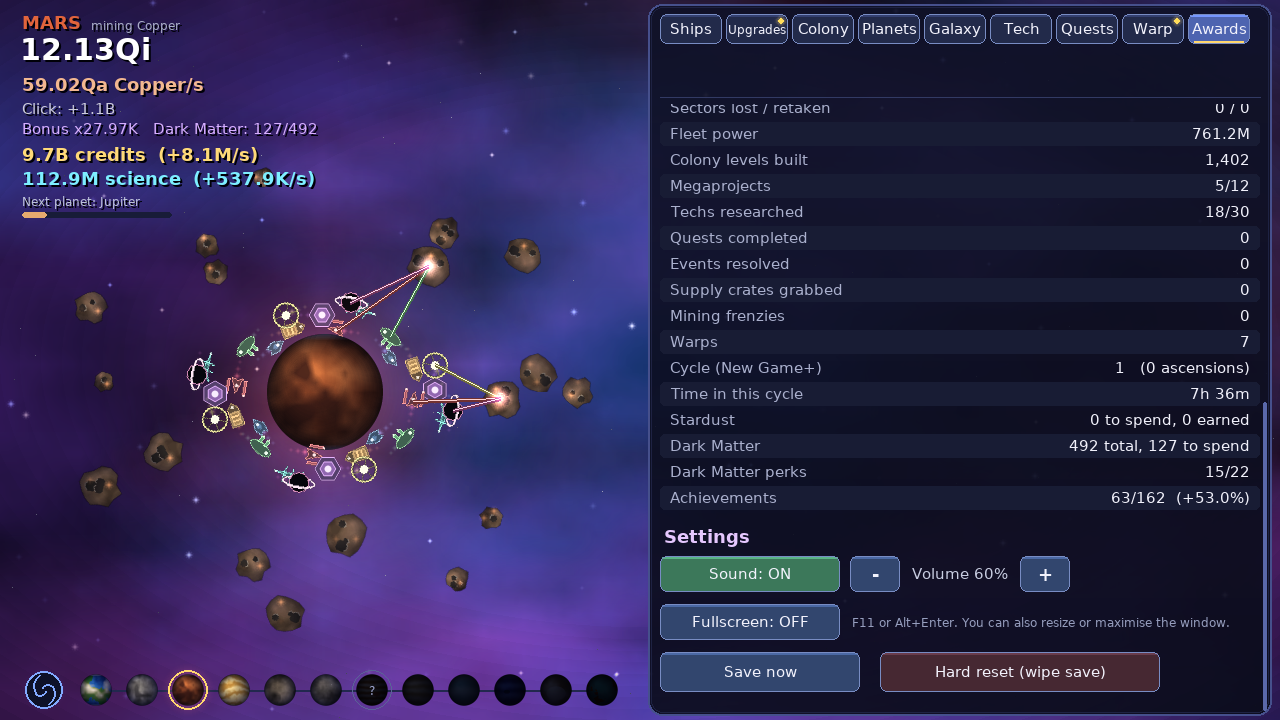
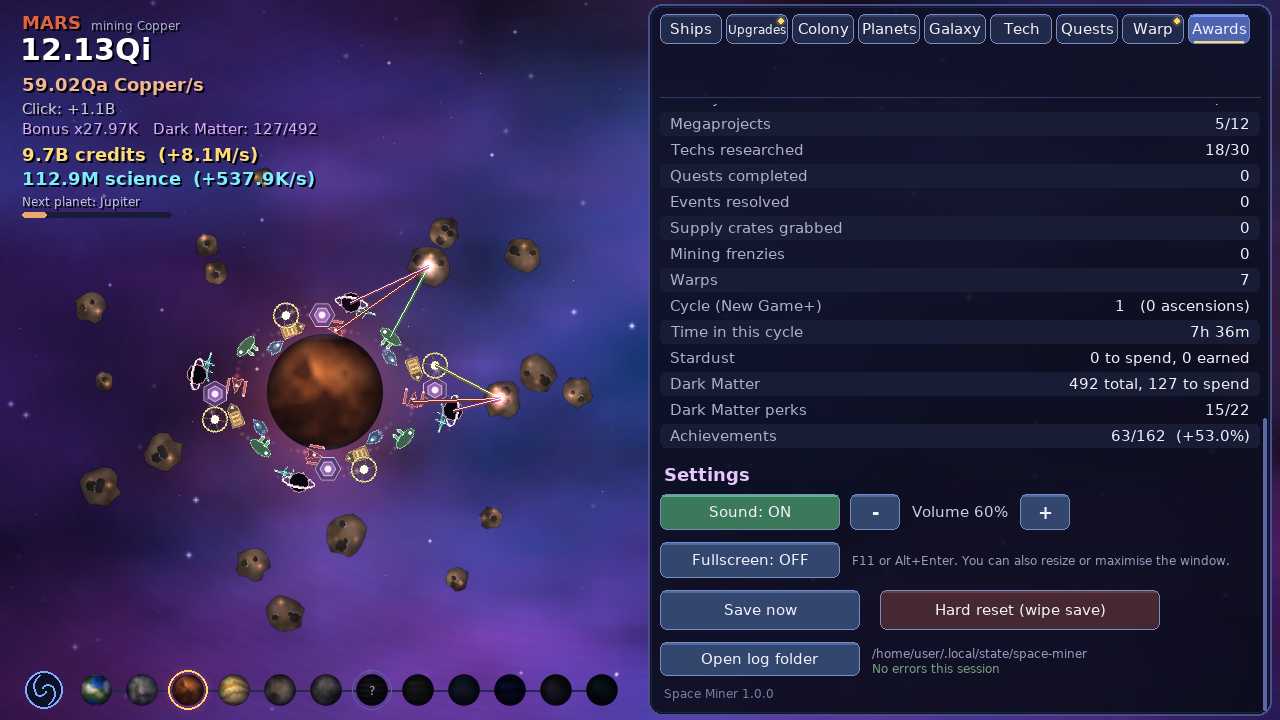
Log button only when logging works; refresh the settings screenshot

Changed region(s): [[0.5, 0.1222, 0.9688, 0.9778], [0.8438, 0.3972, 1.0, 0.7028], [0.9375, 0.1528, 0.9688, 0.3056]]

diff --git a/space_miner.py b/space_miner.py
@@ -1819,7 +1819,7 @@ class App:
                     "CLICK AGAIN: WIPE SAVE" if self.reset_confirm > 0 else "Hard reset (wipe save)", sm,
                     self.hard_reset, panel=True, col=(150, 60, 70) if self.reset_confirm > 0 else (70, 40, 50))
         y += 52
-        can_open = not resources.ANDROID and gamelog.log_path() is not None
+        can_open = not resources.ANDROID and gamelog.enabled()
         self.button(scr, pygame.Rect(PANEL.x, y, 200, 34), "Open log folder", sm, self.open_log_folder, enabled=can_open, panel=True)
         shown = gamelog.log_dir()
         if len(shown) > 52:

diff --git a/gamelog.py b/gamelog.py
@@ -33,6 +33,11 @@ def log_dir():
     return _state["dir"] or resources.log_dir()
 
 
+def enabled():
+    """True when the log files are being written."""
+    return _state["dir"] is not None
+
+
 def log_path():
     return os.path.join(log_dir(), "space-miner.log")
 

diff --git a/README.md b/README.md
@@ -384,7 +384,7 @@ The **Stats** chip in the Awards tab lists everything you have done (play time, 
 
 ![Stats](screenshots/15-stats-and-settings.png)
 
-The settings are at the bottom of the page, including the **Fullscreen** button (the same as **F11**):
+The settings are at the bottom of the page: sound, the **Fullscreen** button (the same as **F11**), saving, and **Open log folder** (see Troubleshooting):
 
 ![Settings with the Fullscreen button](screenshots/38-fullscreen-setting.png)
 
